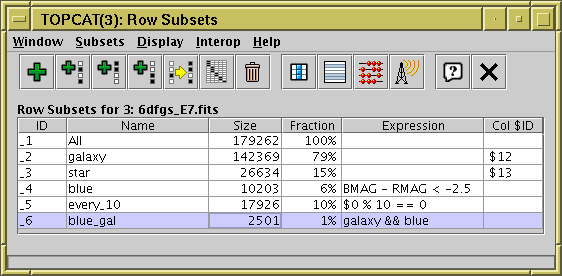
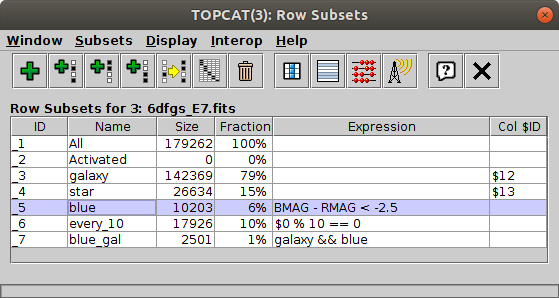
topcat: add new Activated subset
TopcatModels now have an automatically added RowSubset Activated,
which reports the currently activated row (if any).

diff --git a/topcat/src/main/uk/ac/starlink/topcat/TopcatCodec2.java b/topcat/src/main/uk/ac/starlink/topcat/TopcatCodec2.java
@@ -84,6 +84,8 @@ public class TopcatCodec2 implements TopcatCodec {
     private static final DataColSpec DATA_COLSPEC = new DataColSpec();
 
     private static final AllSetSpec ALL_SETSPEC = new AllSetSpec();
+    private static final ActivatedSetSpec ACTIVATED_SETSPEC =
+        new ActivatedSetSpec();
     private static final DeletedSetSpec DEL_SETSPEC = new DeletedSetSpec();
     private static final ExprSetSpec EXPR_SETSPEC = new ExprSetSpec();
     private static final InverseSetSpec INV_SETSPEC = new InverseSetSpec();
@@ -182,6 +184,10 @@ public class TopcatCodec2 implements TopcatCodec {
             if ( rset == RowSubset.ALL ) {
                 hadAll = true;
                 sspec = ALL_SETSPEC.createStringSpec();
+            }
+            else if ( rset == tcModel.getActivatedSubset() ) {
+                long lrow = tcModel.getActivatedSubset().getRowIndex();
+                sspec = ACTIVATED_SETSPEC.createStringSpec( lrow );
             }
             else if ( rset instanceof DeletedSubset ) {
                 sspec = DEL_SETSPEC.createStringSpec();
@@ -431,6 +437,13 @@ public class TopcatCodec2 implements TopcatCodec {
             if ( ALL_SETSPEC.isSpec( rsetSpec ) ) {
                 rset = RowSubset.ALL;
             }
+            else if ( ACTIVATED_SETSPEC.isSpec( rsetSpec ) ) {
+                rset = tcModel.getActivatedSubset();
+                long lrow = ACTIVATED_SETSPEC.getRowIndex( rsetSpec );
+                if ( lrow >= 0 ) {
+                    tcModel.getActivatedSubset().setRowIndex( lrow );
+                }
+            }
             else if ( DEL_SETSPEC.isSpec( rsetSpec ) ) {
                 rset = new DeletedSubset();
 
@@ -520,10 +533,10 @@ public class TopcatCodec2 implements TopcatCodec {
                            ? jndexCurrentSubset.intValue()
                            : -1;
 
-        /* Add row subsets to the TopcatModel, except for ALL, which is
-         * added as part of TopcatModel construction. */
+        /* Add row subsets to the TopcatModel, except for those which are
+         * added as part of TopcatModel construction (ALL, Activated). */
         for ( RowSubset rset : rsets ) {
-            if ( rset != RowSubset.ALL ) {
+            if ( ! tcModel.getSubsets().contains( rset ) ) {
                 tcModel.addSubset( rset );
             }
         }
@@ -1154,6 +1167,50 @@ public class TopcatCodec2 implements TopcatCodec {
          */
         public String createStringSpec() {
             return prefix_;
+        }
+    }
+
+    /**
+     * Specifier for the special Activated subset, as created automatically
+     * by a TopcatModel and returned by TopcatModel.getActivatedSubset.
+     */
+    private static class ActivatedSetSpec extends Spec {
+
+        /**
+         * Constructor.
+         */
+        ActivatedSetSpec() {
+            super( "activated:" );
+        }
+
+        /**
+         * Returns the unparameterised specifier string.
+         *
+         * @return  prefix
+         */
+        public String createStringSpec( long lrow ) {
+            return prefix_ + ( lrow >= 0 ? Long.toString( lrow ) : "" );
+        }
+
+        /**
+         * Retrieves the row index from an activation-type string specifier.
+         *
+         * @param  txt  activation subset specifier string
+         * @return  activatd row index, or -1 if not defined
+         */
+        public long getRowIndex( String txt ) {
+            String suffix = getSuffix( txt );
+            if ( txt != null && txt.trim().length() > 0 ) {
+                try {
+                    return Long.parseLong( suffix );
+                }
+                catch ( NumberFormatException e ) {
+                    return -1;
+                }
+            }
+            else {
+                return -1;
+            }
         }
     }
 

diff --git a/topcat/src/main/uk/ac/starlink/topcat/TopcatModel.java b/topcat/src/main/uk/ac/starlink/topcat/TopcatModel.java
@@ -75,6 +75,7 @@ public class TopcatModel {
     private final ColumnList columnList_;
     private final OptionsListModel<RowSubset> subsets_;
     private final Map<RowSubset,Long> subsetCounts_;
+    private final SingleRowSubset activatedSubset_;
     private final ComboBoxModel<SortOrder> sortSelectionModel_;
     private final ComboBoxModel<RowSubset> subsetSelectionModel_;
     private final SortSenseModel sortSenseModel_;
@@ -182,16 +183,20 @@ public class TopcatModel {
         sortSenseModel_ = new SortSenseModel();
 
         /* Initialise subsets list. */
+        activatedSubset_ = new SingleRowSubset( "Activated" );
         subsets_ = new OptionsListModel<RowSubset>();
         subsets_.add( RowSubset.ALL );
+        subsets_.add( activatedSubset_ );
 
         /* Set up the current subset selector. */
         subsetSelectionModel_ = new SubsetSelectionModel();
 
         /* Initialise count of subsets. */
         subsetCounts_ = new HashMap<RowSubset,Long>();
-        subsetCounts_.put( RowSubset.NONE, new Long( 0 ) );
-        subsetCounts_.put( RowSubset.ALL, new Long( startab.getRowCount() ) );
+        subsetCounts_.put( RowSubset.NONE, Long.valueOf( 0 ) );
+        subsetCounts_.put( RowSubset.ALL,
+                           Long.valueOf( startab.getRowCount() ) );
+        subsetCounts_.put( activatedSubset_, Long.valueOf( 0 ) );
 
         /* Set up a map to contain column selector models. */
         columnSelectorMap_ = new HashMap<ValueInfo,ColumnSelectorModel>();
@@ -451,6 +456,15 @@ public class TopcatModel {
     }
 
     /**
+     * Returns a subset representing the currently activated row.
+     *
+     * @return  subset
+     */
+    public SingleRowSubset getActivatedSubset() {
+        return activatedSubset_;
+    }
+
+    /**
      * Returns the window that manages this model's activation actions.
      *
      * @return  activation window, created lazily
@@ -531,6 +545,8 @@ public class TopcatModel {
     public void highlightRow( long lrow, boolean sendOut ) {
         if ( lrow != lastHighlight_ ) {
             lastHighlight_ = lrow;
+            activatedSubset_.setRowIndex( lrow );
+            updateSubsetCount( activatedSubset_, lrow >= 0 ? 1 : 0 );
             fireModelChanged( TopcatEvent.ROW,
                               lrow >= 0 ? Long.valueOf( lrow ) : null );
             if ( lrow >= 0 ) {
@@ -752,9 +768,12 @@ public class TopcatModel {
     public JComboBox<String> createNewSubsetNameSelector() {
 
         /* Get a selector containing the names of all existing subsets,
-         * and doctor its model so that it excludes RowSubset.ALL. */
+         * and doctor its model so that it excludes the special subsets
+         * All and Activated. */
         final ComboBoxModel<RowSubset> rsetModel = subsets_.makeComboBoxModel();
-        final int nskip = rsetModel.getElementAt( 0 ) == RowSubset.ALL ? 1 : 0;
+        final int nskip = 2;
+        assert rsetModel.getElementAt( 0 ) == RowSubset.ALL;
+        assert rsetModel.getElementAt( 1 ) == activatedSubset_;
         ComboBoxModel<String> nameModel = new ComboBoxModel<String>() {
             private Object selected;
             public int getSize() {
@@ -823,6 +842,7 @@ public class TopcatModel {
         for ( int is = 0; is < nset && ! done; is++ ) {
             RowSubset rs = subsets_.get( is );
             if ( rset != RowSubset.ALL &&
+                 rset != activatedSubset_ &&
                  rset.getName().equalsIgnoreCase( rs.getName() ) ) {
                 rset.setKey( rs.getKey() );
                 subsets_.set( is, rset );

diff --git a/topcat/src/testcases/uk/ac/starlink/topcat/CodecTest.java b/topcat/src/testcases/uk/ac/starlink/topcat/CodecTest.java
@@ -90,9 +90,9 @@ public class CodecTest extends TableCase {
         assertEquals( ( nrow + 1 ) / 4, countSubset( quarterSet, nrow ) );
         assertEquals( ( nrow + 1 ) * 3 / 4, countSubset( notQuarterSet, nrow ));
 
-        RowSubset removed1 = (RowSubset) tcModel.getSubsets().remove( 3 );
+        RowSubset removed1 = (RowSubset) tcModel.getSubsets().remove( 4 );
         assertEquals( notTenSet, removed1 );
-        RowSubset removed2 = (RowSubset) tcModel.getSubsets().remove( 3 );
+        RowSubset removed2 = (RowSubset) tcModel.getSubsets().remove( 4 );
         assertEquals( quarterSet, removed2 );
         tcModel.applySubset( tenSet );
         tcModel.sortBy( new SortOrder( tcModel.getColumnModel()
@@ -113,6 +113,7 @@ public class CodecTest extends TableCase {
         colModel.removeColumn( colModel.getColumn( 0 ) );
         colModel.removeColumn( colModel
                               .getColumn( colModel .getColumnCount() - 1 ) );
+        tcModel.getActivatedSubset().setRowIndex( 5 );
         TopcatModel tcModel1 = roundTrip( codec, tcModel );
         assertEqualTopcatModels( tcModel, tcModel1 );
     }
